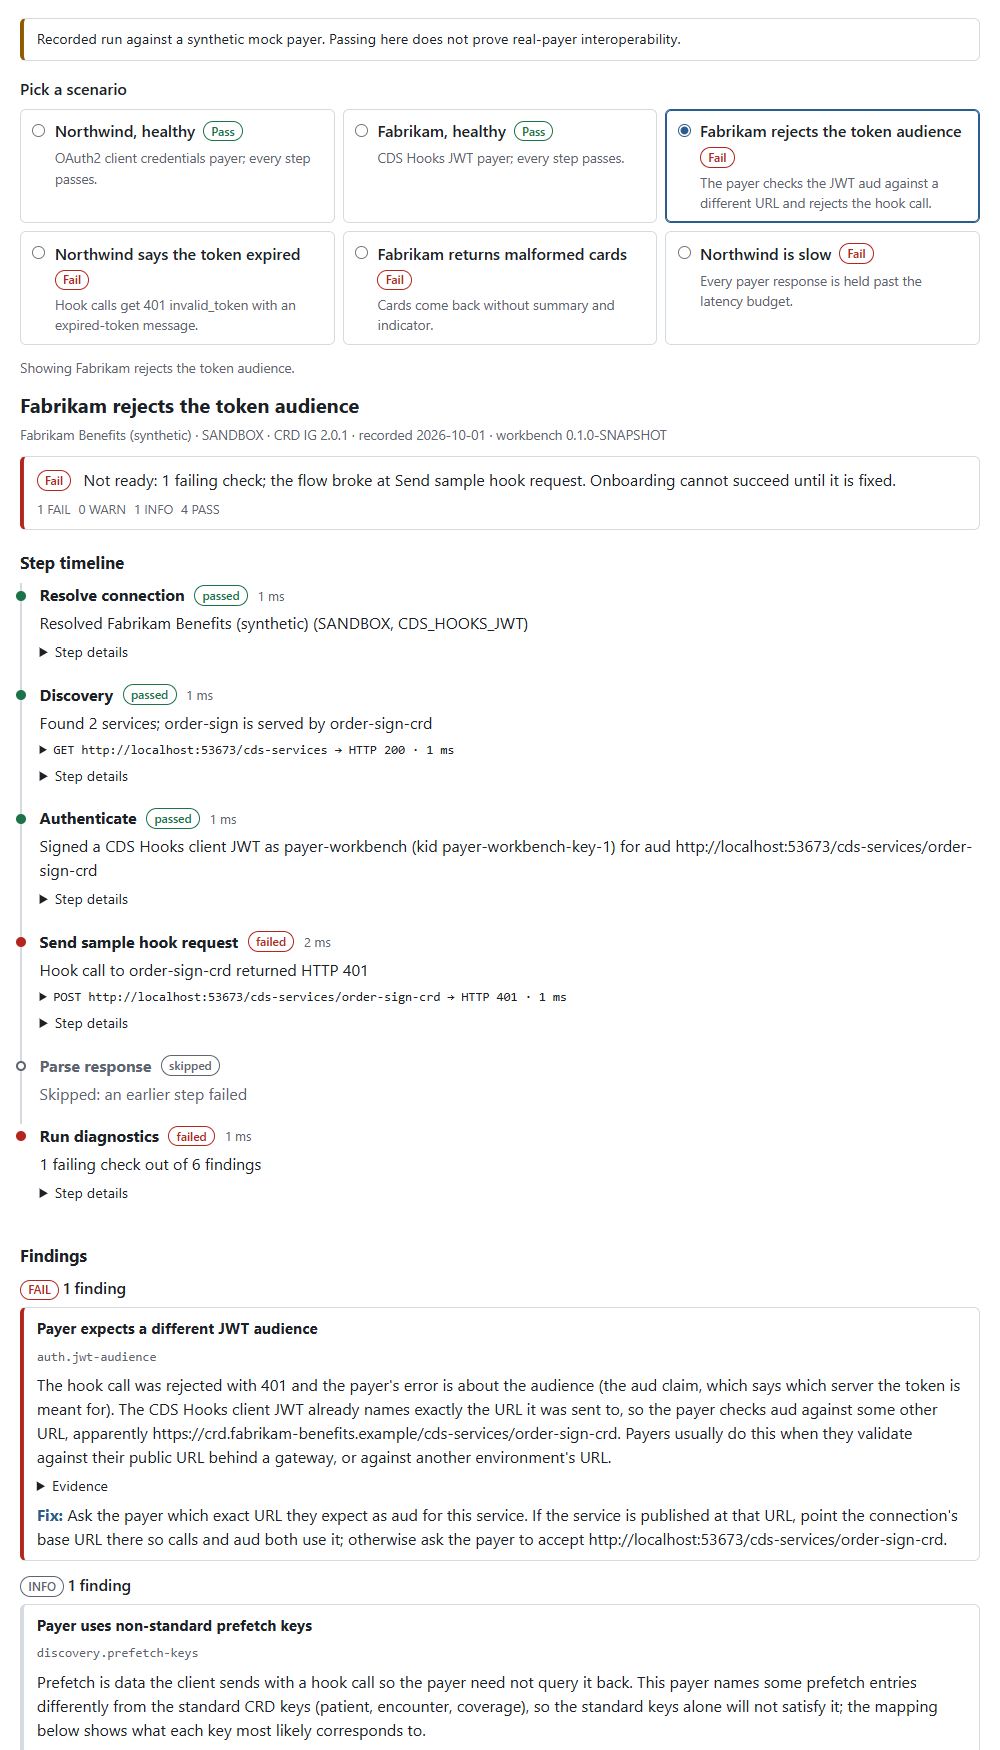
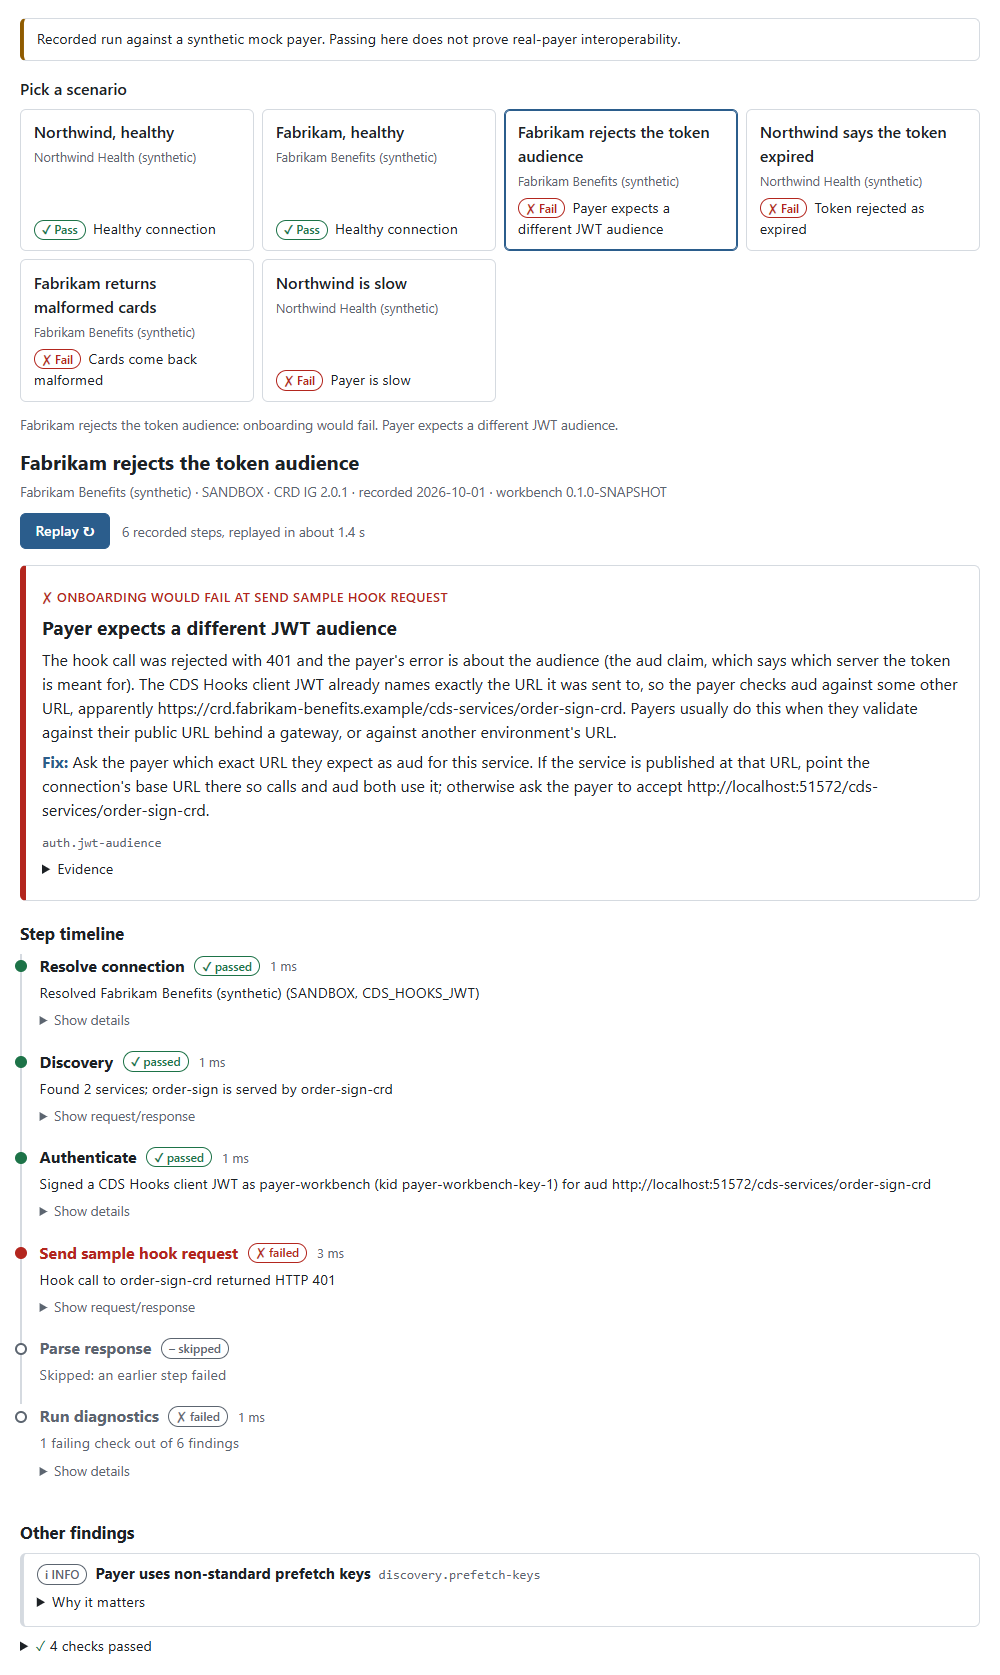
Keep Run focusable during playback and refresh the replay screenshot

diff --git a/replay/replay.js b/replay/replay.js
@@ -224,8 +224,7 @@ function createPlayer(run, report, hx, status) {
   }
 
   function reset() {
-    clearTimeout(timer);
-    timer = null;
+    stop();
     index = -1;
     items.forEach(item => show(item, false));
     result.replaceChildren();
@@ -253,7 +252,6 @@ function createPlayer(run, report, hx, status) {
       return finished;
     }
     setButton('Run', '▶');
-    runButton.setAttribute('disabled', '');
     show(skipButton, true);
     status.textContent = `Replaying ${run.title}…`;
     advance();
@@ -268,7 +266,6 @@ function createPlayer(run, report, hx, status) {
     result.replaceChildren(renderResult(report, hx));
     findings.replaceChildren(h(hx(1), {}, 'Other findings'), ...renderFindings(report.findings || [], hx));
     show(findings, true);
-    runButton.removeAttribute('disabled');
     setButton('Replay', '↻');
     show(skipButton, false);
     status.textContent = `${run.title}: ${resultLine(report)}`;

diff --git a/replay/replay.css b/replay/replay.css
@@ -120,7 +120,6 @@
   cursor: pointer;
 }
 .pw-btn.pw-primary { background: var(--pw-accent); color: var(--pw-paper); }
-.pw-btn[disabled] { opacity: 0.6; cursor: default; }
 .pw-hint { color: var(--pw-muted); font-size: 0.85rem; }
 
 .pw-result {
